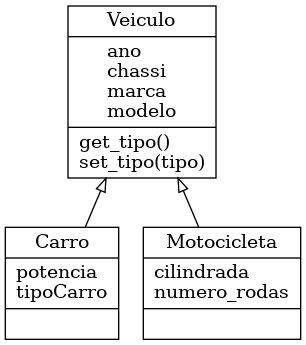
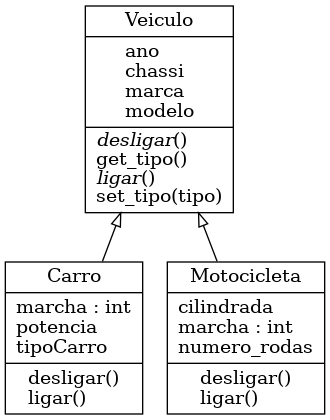
Alteracao no projeto

Changed region(s): [[0.0, 0.0, 1.0, 1.0]]

diff --git a/poo/projeto006/Carro.py b/poo/projeto006/Carro.py
@@ -5,8 +5,14 @@ class Carro ( Veiculo.Veiculo ):
         super().set_tipo("Carro")
         self.potencia = potencia
         self.tipoCarro = tipoCarro
+        self.marcha = 0
+    def ligar( self ):
+        return self.marcha
+    def desligar( self ):
+        self.marcha = 0
 """ Aqui comeca o teste """
 CarroNovo = Carro('8885AZKG01Z12A33921312', 'JAC', 'J3', '2022', 2.0, 'HATCH')
 print(CarroNovo.get_tipo())
 print(CarroNovo.potencia)
 print(CarroNovo.tipoCarro)
+print(CarroNovo.ligar())

diff --git a/poo/projeto006/Motocicleta.py b/poo/projeto006/Motocicleta.py
@@ -5,8 +5,14 @@ class Motocicleta( Veiculo.Veiculo ):
         super().set_tipo("Motocicleta")
         self.cilindrada = cilindrada
         self.numero_rodas = numero_rodas
+        self.marcha = 1
+    def ligar( self ):
+        return self.marcha
+    def desligar( self ):
+        self.marcha = 1
 """ Aqui comeca o teste """
 Moto = Motocicleta('5AZKG01Z12A339037', 'Honda', 'CG', '2015', 1200, 2)
 print(Moto.get_tipo())
 print(Moto.numero_rodas)
 print(Moto.marca)
+print(Moto.ligar())

diff --git a/poo/projeto006/Veiculo.py b/poo/projeto006/Veiculo.py
@@ -9,3 +9,8 @@ class Veiculo:
         return self.__tipo
     def set_tipo(self,tipo):
         self.__tipo = tipo
+    """ Interfaces """
+    def ligar( self ):
+        pass
+    def desligar( self ):
+        pass
